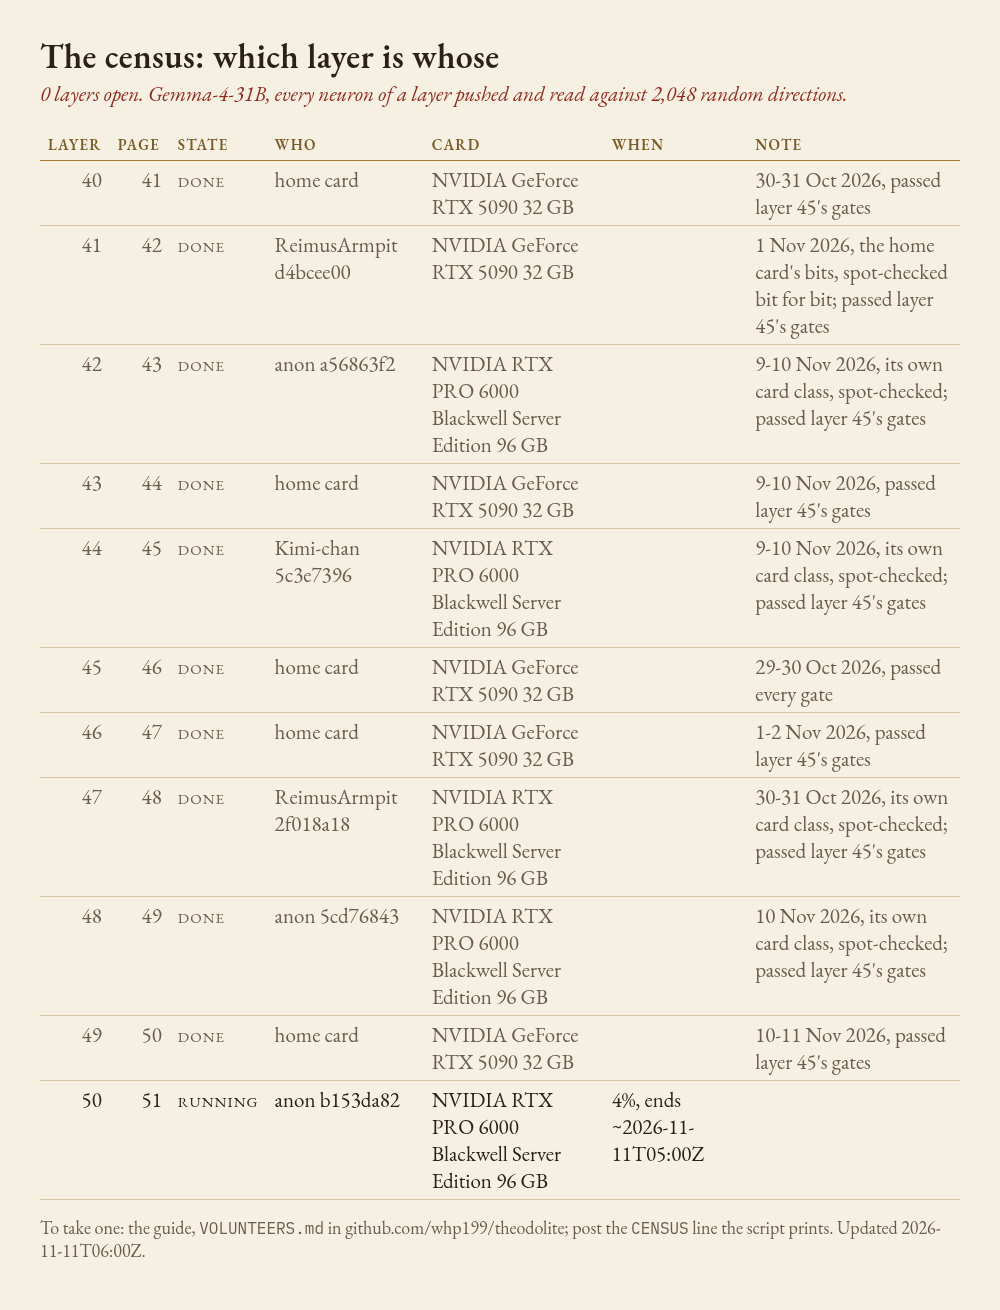
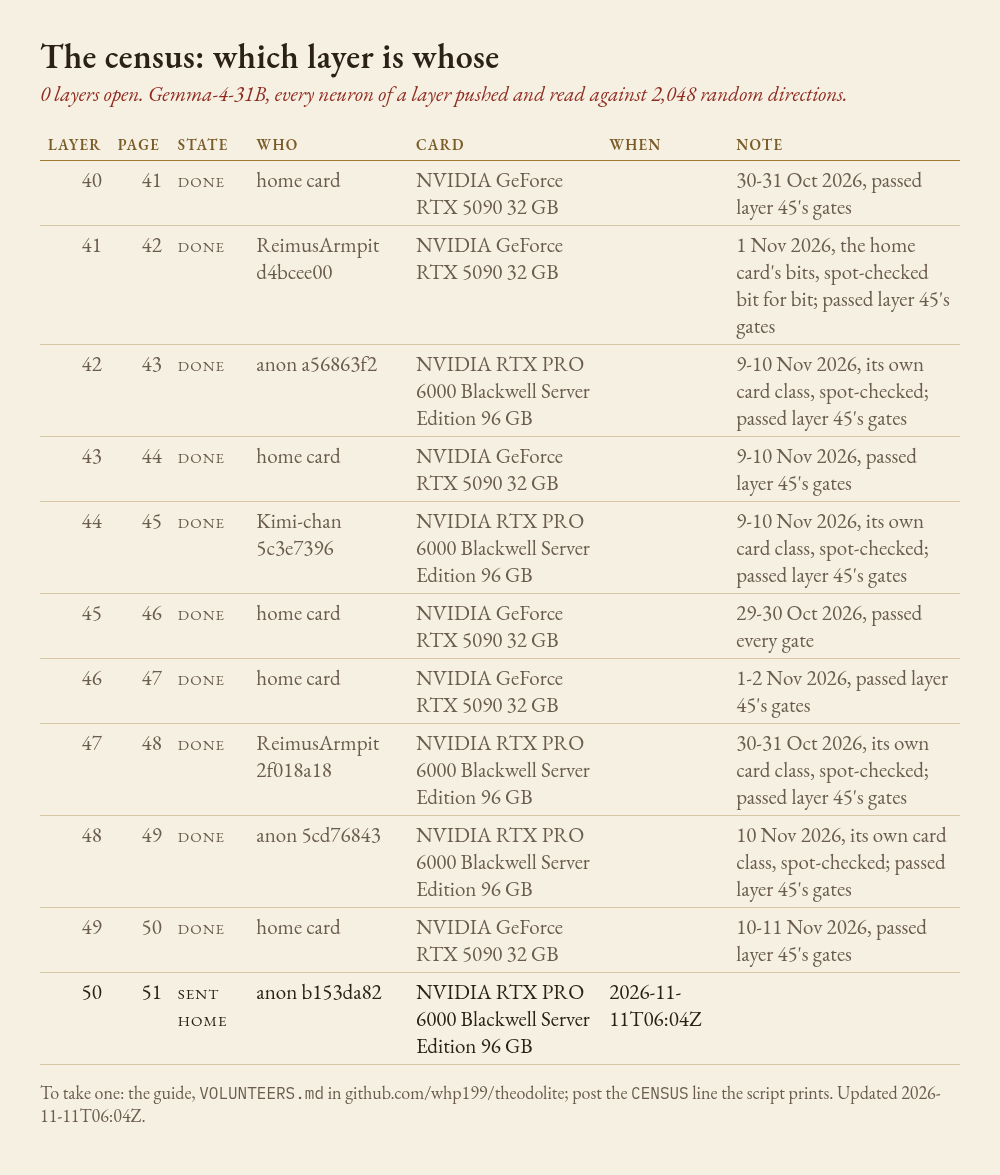
Board: layer 50 sent home by its volunteer (anon, claim b153da82); every layer of the kit now done or sent home

diff --git a/volunteers/BOARD.md b/volunteers/BOARD.md
@@ -14,7 +14,7 @@ Kit 1 (census-kit-1). How to take a layer: [VOLUNTEERS.md](https://github.com/wh
 | 47 | 48 | done | ReimusArmpit 2f018a18 | NVIDIA RTX PRO 6000 Blackwell Server Edition 96 GB |  | 30-31 Oct 2026, its own card class, spot-checked; passed layer 45's gates |
 | 48 | 49 | done | anon 5cd76843 | NVIDIA RTX PRO 6000 Blackwell Server Edition 96 GB |  | 10 Nov 2026, its own card class, spot-checked; passed layer 45's gates |
 | 49 | 50 | done | home card | NVIDIA GeForce RTX 5090 32 GB |  | 10-11 Nov 2026, passed layer 45's gates |
-| 50 | 51 | running | anon b153da82 | NVIDIA RTX PRO 6000 Blackwell Server Edition 96 GB | 4%, ends ~2026-11-11T05:00Z |  |
+| 50 | 51 | sent home | anon b153da82 | NVIDIA RTX PRO 6000 Blackwell Server Edition 96 GB | 2026-11-11T06:04Z |  |
 
 Judged:
 
@@ -24,4 +24,4 @@ Judged:
 - L48 anon 5cd76843: accepted (10 Nov 2026, its own card class, spot-checked passed layer 45s gates)
 - L44 Kimi-chan 5c3e7396: accepted (9-10 Nov 2026, its own card class, spot-checked passed layer 45s gates)
 
-Holds: 36 h after RESERVE to START; then the run's end time (from PROGRESS) plus 24 h; at most 10 days in all. Updated 2026-11-11T06:00Z.
+Holds: 36 h after RESERVE to START; then the run's end time (from PROGRESS) plus 24 h; at most 10 days in all. Updated 2026-11-11T06:04Z.
